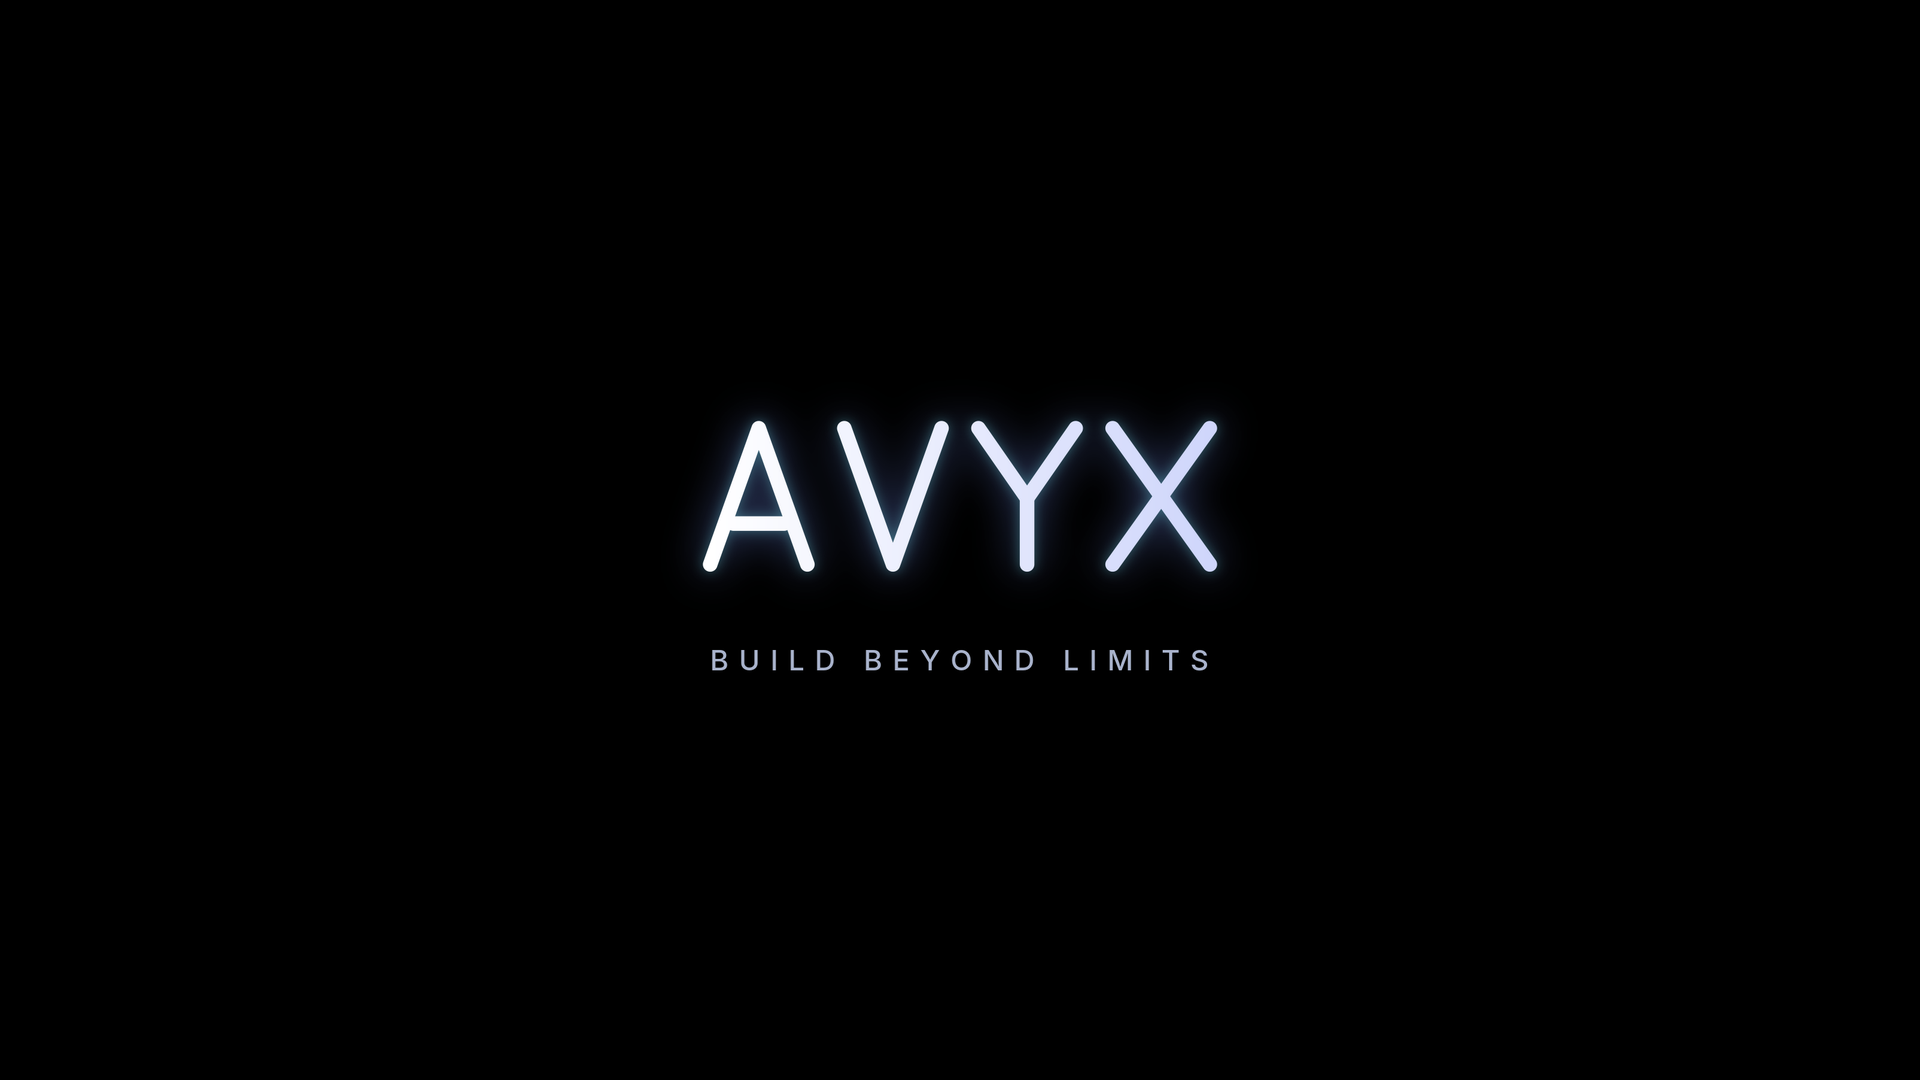
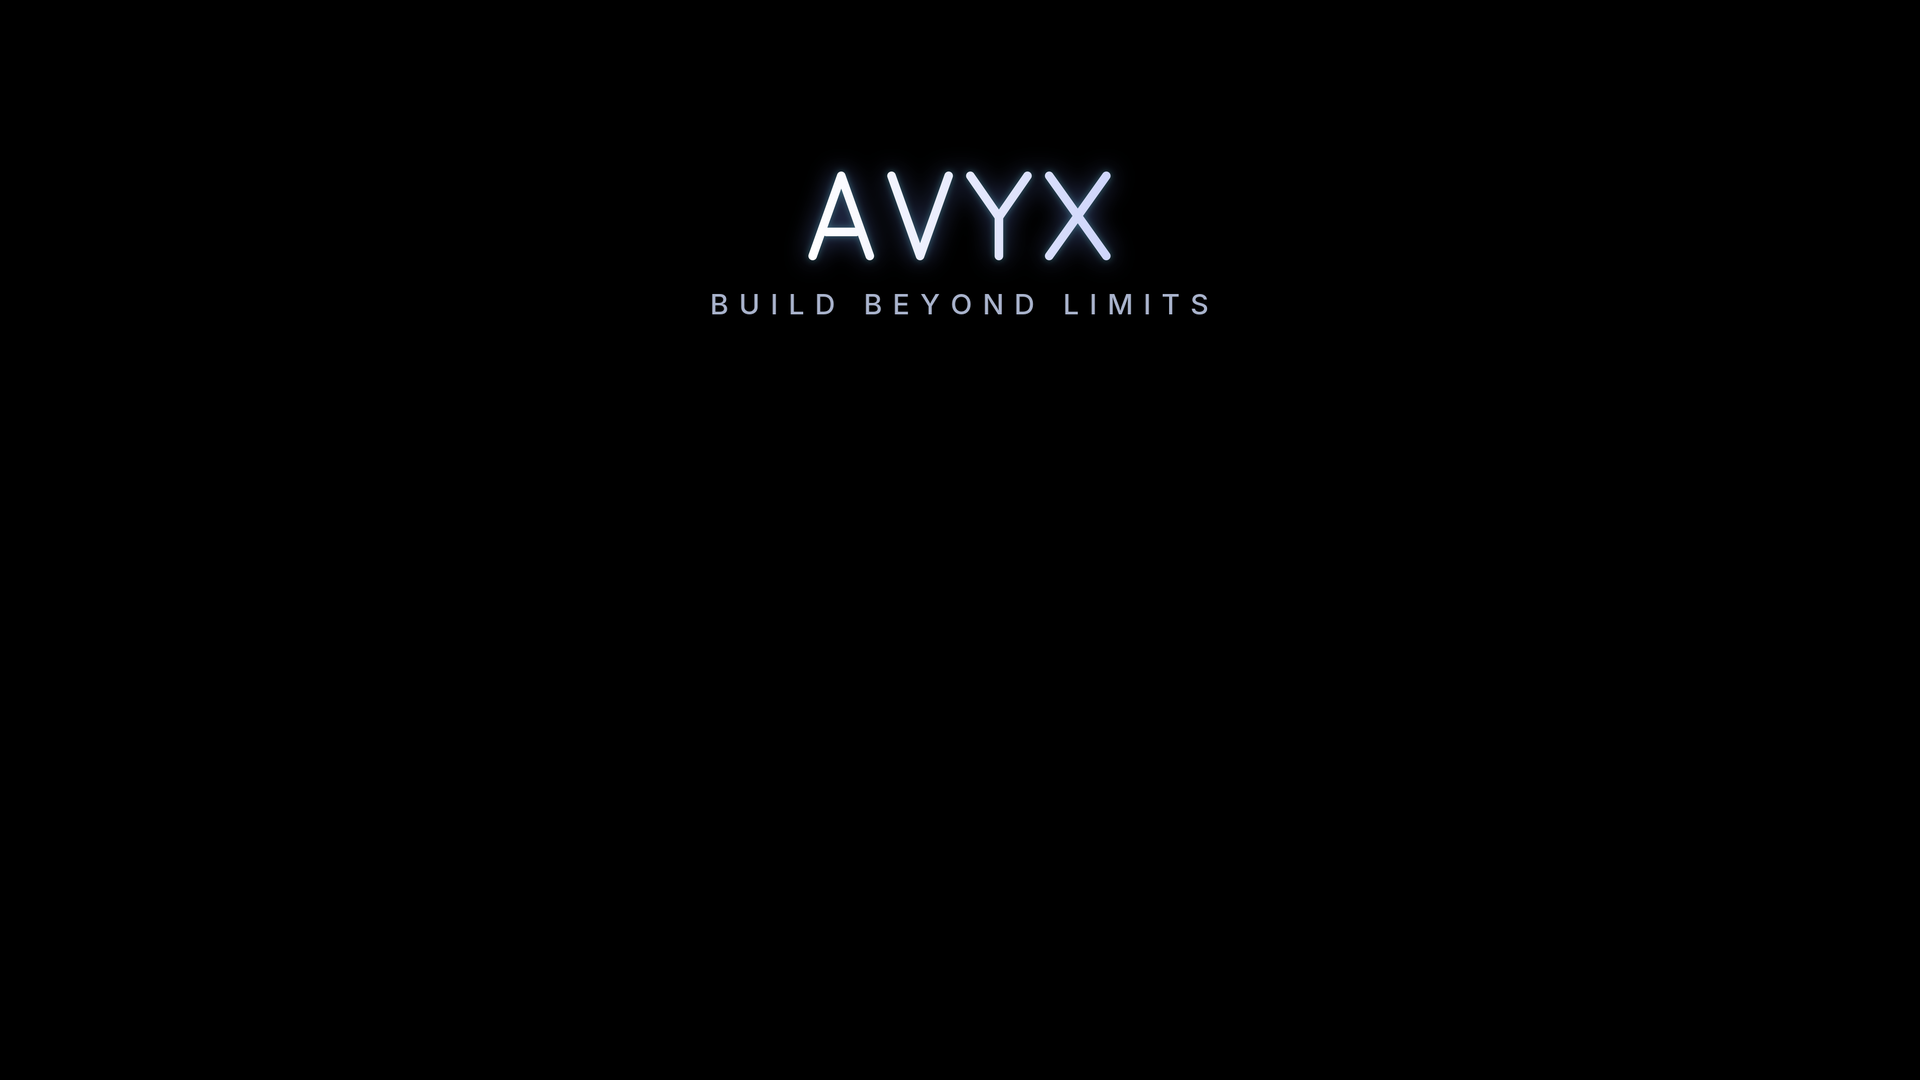
Fix boot menus: AVYX splash overrides, auto-boot timeouts, serial status
First CI run showed the Debian helmet/title on the menus and a menu that never
auto-boots, so the VM sat at the bootloader for the whole test window.

- brand-bootloaders.sh: replace the shared splash.svg, override splash.png for GRUB (16:9)
  and syslinux (4:3) via includes.binary, blank the GRUB title, GRUB hidden menu with 3 s
  timeout, syslinux 3 s timeout; print the resulting configs into the CI log
- gen_assets.py: menu-screen variants with the logo in the top third
- kernel cmdline: systemd.show_status=true so a failed boot is diagnosable over serial
- package list: spectacle is kde-spectacle in trixie
- boot tests: 600 s timeout so failures surface quickly

Claude-Session: https://claude.ai/code/session_019ksqvVG9xJGCfhDQ1C7w2W

diff --git a/tools/gen_assets.py b/tools/gen_assets.py
@@ -364,12 +364,12 @@ def build_wallpapers():
 def build_boot_backgrounds(glow_img):
     # Same layout as the Plymouth splash (avyx.script): logo block centred at 46% of the
     # screen height, slogan tucked under it, thin progress bar at 91%.
-    def compose(w, h, logo_h_frac=0.34, bar=False, bar_fill=0.55):
+    def compose(w, h, logo_h_frac=0.34, bar=False, bar_fill=0.55, center=0.46):
         bg = Image.new("RGB", (w, h), (0, 0, 0))
         lh = int(h * logo_h_frac)
         lw = int(glow_img.width * lh / glow_img.height)
         lg = glow_img.resize((lw, lh), Image.LANCZOS)
-        top = int(h * 0.46 - lh / 2)
+        top = int(h * center - lh / 2)
         bg.paste(lg, ((w - lw) // 2, top), lg)
         with tempfile.TemporaryDirectory() as td:
             sl = Path(td) / "s.png"
@@ -385,8 +385,10 @@ def build_boot_backgrounds(glow_img):
             bg.paste((205, 225, 255), (bx, by, bx + int(bw * bar_fill), by + bh))
         return bg
 
-    compose(1920, 1080).save(BRAND / "grub-background.png")
-    compose(640, 480, 0.30).save(BRAND / "isolinux-splash.png")
+    # Menu screens keep the logo in the top third so the boot menu below stays readable.
+    compose(1920, 1080, 0.20, center=0.20).save(BRAND / "grub-background.png")
+    compose(640, 480, 0.20, center=0.19).save(BRAND / "isolinux-splash.png")
+    # Full ASUS-style layout (what Plymouth shows during boot), for reference.
     compose(1920, 1080, bar=True).save(BRAND / "splash-preview.png")
 
 
